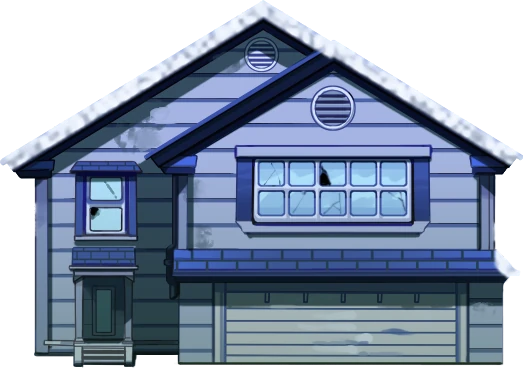
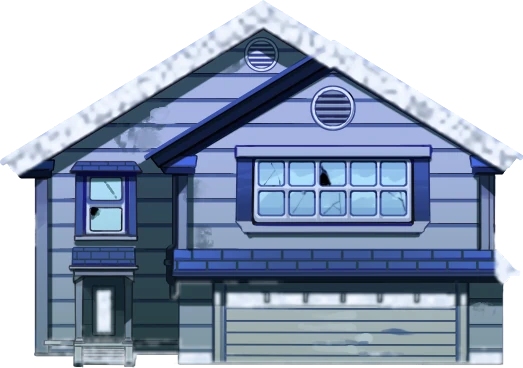
마을 방 다양화: 원작 함장실·자료실·비밀실·창고·생체 연구실 그림을 장별 방 뒷벽으로 쓰고 바닥 질감을 따로 깖, 6장 건물 밑동 풀을 눈으로 덮고 지붕 눈을 두껍게, 4장 갈색 삼각 종유석을 바위·결정으로

diff --git a/js/town.js b/js/town.js
@@ -118,7 +118,7 @@
         R(0, 0, 26, 4, 'b'); R(0, 0, 1, 18, '#'); R(25, 0, 1, 18, '#'); R(0, 17, 26, 1, '#');
         R(1, 7, 24, 1, '_'); R(12, 7, 2, 11, '_'); R(3, 9, 20, 6, 's'); R(12, 7, 2, 11, '_'); R(21, 8, 1, 2, '_');
       }),
-      floor: { base: 'tiles/concrete', zone: 'tiles/factory', path: 'town/g_asph', wall: 'tiles/concrete', back: '#3b3a3c', lane: 'rgba(230,180,40,.8)', edge: 'rgba(0,0,0,0)' },
+      floor: { base: 'tiles/concrete', zone: 'tiles/factory', zoneA: 0.45, path: 'town/g_asph', wall: 'tiles/concrete', back: '#3b3a3c', lane: 'rgba(230,180,40,.8)', edge: 'rgba(0,0,0,0)' },
       sky: ['#5d5a68', '#c79a72'], dark: 0.12, darkC: '20,14,10', fx: 'sparks', start: [12, 16],
       back: [{ art: 'town/t2_fence', by: 4.05, h: 2.0, repeat: 1 }],
       objects: [
@@ -177,8 +177,8 @@
       objects: [
         BLD('cmd', 'town/t4_cmd', 3, 6, 3, 3, 4, { plinth: 0, glow: '255,110,50' }), BLD('shop', 'town/t4_shop', 14, 6, 8, 3, 17, { plinth: 0, glow: '120,255,240' }), BLD('cafe', 'town/t2_booth', 3, 12, 6, 3, 6, { plinth: 0, glow: '255,200,140' }),
         D('tiles/crystal0', 1, 10, 1, 2.0, { lit: [130, '90,230,220'] }), D('tiles/crystal1', 22, 12, 2, 1.8, { lit: [140, '120,240,230'] }), D('tiles/crystal0', 10, 16, 1, 1.5, { lit: [100, '90,230,220'] }),
-        D('town/t4_ore', 8, 10, 2, 1.0), D('town/t4_stal2', 1, 15, 2, 1.9), D('town/t4_stal2', 22, 16, 2, 2.0), D('town/t4_rock', 16, 16, 2, 0.7),
-        D('town/t4_stal2', 23, 7, 2, 2.4), D('town/t4_stal', 0, 12, 2, 1.5, { flip: 1 }), D('town/t4_stal2', 0, 9, 1, 1.8, { flip: 1 }), D('town/t4_rock', 21, 9, 2, 0.6),
+        D('town/t4_ore', 8, 10, 2, 1.0), D('town/t4_ore', 1, 15, 2, 0.9), D('town/t4_rock', 22, 16, 2, 0.7), D('town/t4_rock', 16, 16, 2, 0.7),
+        D('town/t4_rock', 23, 7, 2, 0.8), D('town/t4_stal', 0, 12, 2, 1.5, { flip: 1 }), D('tiles/crystal1', 0, 9, 1, 1.4, { lit: [90, '120,240,230'] }), D('town/t4_rock', 21, 9, 2, 0.6),
         D('town/t4_ore', 18, 16, 2, 0.9), D('tiles/crystal1', 3, 16, 1, 1.3, { lit: [90, '120,240,230'] }),
         D('tiles/console', 18, 11, 2, 1.4, { lit: [90, '120,220,255'] }), D('tiles/gas', 20, 14, 2, 1.4), D('tiles/crate0', 11, 14, 1, 0.9), D('tiles/crate1', 10, 14, 1, 1.0), D('tiles/bags0', 15, 15, 2, 0.75),
         D('town/t0_lamp', 7, 8, 1, 2.1, { lit: [120, '200,235,255'] }), D('town/t0_lamp', 10, 8, 1, 2.1, { lit: [120, '200,235,255'] }),
@@ -186,9 +186,9 @@
         EXIT(12, 17), ...NPC([12, 11], [10, 11], [20, 10]), CON(14, 15),
       ],
       rooms: {
-        cmd: ROOM('드론 관제실', 'r_mm0_0', 370, ['#3c5a5c', '#88a9ab'], [D('town/r_iron1_9', 1, 2, 2, 1.7), D('town/r_mm2_2', 11, 2, 1, 1.6), D('town/r_mm1_12', 9, 2, 1, 1.7)]),
+        cmd: Object.assign(ROOM('드론 관제실', 'r_secret', 556, ['#3c5a5c', '#88a9ab'], [D('town/r_mk4_1', 1, 6, 1, 1.4), D('town/r_mm2_2', 11, 7, 1, 1.5)]), { floorTex: 'tiles/labd' }),
         shop: Object.assign(ROOM('드론 격납고', 'r_train_0', 365, ['#55606e', '#9aa6b6'], [D('town/r_iron1_5b', 1, 2, 1, 1.9), D('town/r_iron2_16', 11, 2, 1, 2.2)]), { tint: '#c9e3ea' }),
-        cafe: ROOM('보급고 휴게실', 'r_cafe3_0', 268, ['#8f877a', '#ece7de'], [D('town/r_cafe5_1', 3, 4, 3, 1.1), D('town/r_cafe2_1', 8, 5, 3, 1.0), D('town/r_cafe3_2', 10, 2, 1, 1.0), D('town/r_res2_16', 11, 2, 1, 1.6), D('tiles/crate1', 1, 2, 1, 1.0)]),
+        cafe: Object.assign(ROOM('보급고 휴게실', 'r_ware', 552, ['#8f877a', '#ece7de'], [D('town/r_cafe5_1', 4, 4, 3, 1.1), D('town/r_cafe2_1', 8, 4, 3, 1.0), D('town/r_cafe3_2', 11, 3, 1, 1.0)]), { floorTex: 'tiles/factory' }),
       },
     },
     // 5장 건너편 역사 거점: 지하 철도 승강장. 위는 기둥과 화물칸이 선 승강장, 언더와처 시설의 금고문과 서버
@@ -212,7 +212,7 @@
       ],
       lights: [5, 12.5, 20].flatMap((x) => [9, 13, 16].map((y) => [x, y, 210, '200,230,255'])), // 천장 조명: 고르게
       rooms: {
-        cmd: Object.assign(ROOM('서버 관제실', 'r_dis1_0', 355, ['#2f4f4a', '#7fa69c'], [D('town/r_andr1_15', 1, 2, 1, 2.1), D('town/r_andr2_10', 9, 2, 3, 1.0), D('tiles/server', 1, 6, 2, 1.1)]), { tint: '#d4e2ff' }),
+        cmd: Object.assign(ROOM('서버 관제실', 'r_arch', 552, ['#2f4f4a', '#7fa69c'], [D('town/r_andr2_10', 1, 7, 3, 1.0), D('tiles/server', 10, 7, 2, 1.1)]), { floorTex: 'tiles/labd' }),
         shop: Object.assign(ROOM('열차 정비실', 'r_train_0', 365, ['#55606e', '#9aa6b6'], [D('town/r_iron1_9', 1, 2, 2, 1.7), D('town/r_var2_14', 11, 2, 1, 2.4)]), { tint: '#d2deef' }),
         cafe: ROOM('역무실 휴게실', 'r_cafe5_0', 268, ['#8f877a', '#ece7de'], [D('town/r_cafe5_3', 8, 2, 3, 1.0), D('town/r_cafe2_1', 3, 4, 3, 1.0), D('town/r_cafe4_1', 8, 5, 3, 1.1), D('town/r_cafe3_2', 1, 2, 1, 1.0)]),
       },
@@ -239,8 +239,8 @@
         EXIT(12, 17), ...NPC([13, 11], [9, 11], [20, 11]), CON(14, 14),
       ],
       rooms: { // 숨어 지내던 곳이라 방마다 따뜻한 등불 빛
-        cmd: Object.assign(ROOM('분교 은신처', 'r_train_0', 365, ['#6a5a50', '#b8a495'], [D('town/r_cafe4_1b', 3, 3, 3, 1.0), D('town/r_var2_3', 11, 2, 1, 1.9), D('town/r_andr1_0', 1, 2, 1, 2.0)]), { tint: '#ffd9ae' }),
-        shop: Object.assign(ROOM('연구소 정비실', 'r_mm0_0', 370, ['#6b5b62', '#b8a2ab'], [D('town/r_var2_12', 1, 2, 1, 1.9), D('town/r_iron1_9', 10, 2, 2, 1.7)]), { tint: '#ffd9ae' }),
+        cmd: Object.assign(ROOM('분교 은신처', 'r_cap', 546, ['#6a5a50', '#b8a495'], [D('town/r_cafe4_1b', 1, 6, 3, 1.0)]), { floorTex: 'tiles/labw' }),
+        shop: Object.assign(ROOM('연구소 정비실', 'r_bio', 498, ['#6b5b62', '#b8a2ab'], [D('town/r_iron1_9', 10, 4, 2, 1.5)]), { floorTex: 'tiles/labw' }),
         cafe: Object.assign(ROOM('산장 쉼터', 'r_cafe4_0', 268, ['#8f877a', '#ece7de'], [D('town/r_cafe4_2', 8, 2, 3, 1.2), D('town/r_cafe5_1', 3, 4, 3, 1.1), D('town/r_cafe4_1', 8, 5, 3, 1.1), D('town/r_cafe4_3', 1, 2, 1, 1.6)]), { tint: '#ffe2bf' }),
       },
     },
@@ -251,7 +251,7 @@
     const m = TOWNMAPS[look] || TOWNMAPS.coast, R = m.rooms;
     for (const k in ROOMS0) {
       const o = ROOMS0[k], r = R && R[k];
-      MAPS[k] = r ? Object.assign({}, o, { name: r.label, bg: r.bg, fl: r.fl, wall: r.wall, tint: r.tint,
+      MAPS[k] = r ? Object.assign({}, o, { name: r.label, bg: r.bg, fl: r.fl, wall: r.wall, tint: r.tint, floorTex: r.floorTex,
         objects: [...o.objects.filter((x) => x.t === 'exit' || x.t === 'npc'), ...r.deco] }) : o;
     }
     const objects = m.objects.map((o) => (o.t === 'building' ? Object.assign({}, o, { label: R ? R[o.to[0]].label : ROOMNAME0[o.to[0]] }) : o));
@@ -444,8 +444,11 @@
   function drawRoomFloor(g) {
     const im = img(map.bg), mw = map.w * TILE, mh = map.h * TILE, y1 = 2 * TILE + 6, y2 = mh - TILE + 4, fx0 = TILE - 14, fx1 = mw - TILE + 14;
     g.fillStyle = '#05070c'; g.fillRect(0, y1, mw, mh - y1); // 뒷벽 자리(위 두 줄)는 비워 둔다
-    // 바닥은 원작 방 그림 바닥 가운데의 깨끗한 부분만 늘려 깐다 (옆벽의 서버장·경사로가 늘어지거나 잘려 보이지 않게)
-    if (ok(im)) g.drawImage(im, im.width * 0.46, map.fl + 6, im.width * 0.36, im.height - map.fl - 6, fx0, y1, fx1 - fx0, y2 - y1);
+    // 바닥은 원작 방 그림 바닥 가운데의 깨끗한 부분만 늘려 깐다 (옆벽의 서버장·경사로가 늘어지거나 잘려 보이지 않게).
+    // 방 그림 전체를 뒷벽으로 쓰는 방(floorTex)은 바닥 질감을 따로 깐다
+    const ft = map.floorTex && img(map.floorTex);
+    if (ft && ok(ft)) { const p = g.createPattern(ft, 'repeat'); p.setTransform(new DOMMatrix().scale(0.5)); g.fillStyle = p; g.fillRect(fx0, y1, fx1 - fx0, y2 - y1); }
+    else if (ok(im)) g.drawImage(im, im.width * 0.46, map.fl + 6, im.width * 0.36, im.height - map.fl - 6, fx0, y1, fx1 - fx0, y2 - y1);
     const sg = g.createLinearGradient(0, y1, 0, y1 + 60); sg.addColorStop(0, 'rgba(0,0,0,0.25)'); sg.addColorStop(1, 'rgba(0,0,0,0)');
     g.fillStyle = sg; g.fillRect(fx0, y1, fx1 - fx0, 60);
     g.fillStyle = 'rgba(20,22,28,.55)'; g.fillRect(fx0, y1, fx1 - fx0, 5); // 걸레받이: 벽과 바닥이 만나는 선
@@ -524,7 +527,7 @@
       let dw = w * 1.1, dh = (im.naturalHeight * dw) / im.naturalWidth;
       const maxH = (b.h + 2.6) * TILE; if (dh > maxH) { dw *= maxH / dh; dh = maxH; }
       const x = b.x * TILE + w / 2 - dw / 2;
-      ctx.fillStyle = 'rgba(0,0,0,0.26)'; ctx.beginPath(); ctx.ellipse(x + dw / 2, base - 4, dw * 0.56, 14, 0, 0, 7); ctx.fill();
+      ctx.fillStyle = 'rgba(0,0,0,0.26)'; ctx.beginPath(); ctx.ellipse(x + dw / 2, base - 4, dw * 0.5, 12, 0, 0, 7); ctx.fill();
       if (b.plinth !== 0) { // 바닥 받침 (1장 기지 건물)
         ctx.fillStyle = '#a89f8c'; ctx.fillRect(x - 8, base - 8, dw + 16, 14);
         ctx.fillStyle = '#cfc6b4'; ctx.fillRect(x - 8, base - 12, dw + 16, 10);
@@ -702,7 +705,8 @@
     const vw = W / S, vh = H / S, mw = map.w * TILE, mh = map.h * TILE;
     const ppx = pfx * TILE + TILE / 2, ppy = pfy * TILE + TILE / 2;
     camX = mw < vw ? (mw - vw) / 2 : Math.max(0, Math.min(mw - vw, ppx - vw / 2));
-    const top = map.indoor ? -TILE * 3.2 : 0;
+    let top = 0;
+    if (map.indoor) { const bi = img(map.bg); top = ok(bi) ? Math.min(-TILE * 3.2, 2 * TILE + 6 - (map.fl * (map.w * TILE - TILE * 2 + 28)) / bi.width + 30) : -TILE * 3.2; } // 뒷벽 그림 높이만큼 위를 더 보여 준다 (천장 끝 조금은 잘려도 된다)
     camY = mh - top < vh ? top - (vh - (mh - top)) / 2 : Math.max(top, Math.min(mh - vh, ppy - vh / 2));
     ctx.setTransform(S, 0, 0, S, -camX * S, -camY * S);
     ctx.drawImage(layer, 0, 0);

diff --git a/tools/build_town.py b/tools/build_town.py
@@ -120,7 +120,7 @@ def add_snow(im):
     al = a[:, :, 3] > 40
     h, w = al.shape
     top = np.zeros_like(al)
-    k = max(6, h // 22)  # 눈 두께
+    k = max(8, h // 14)  # 눈 두께
     above = np.zeros_like(al)
     above[k:] = al[:-k]
     top = al & ~above  # 위 k 픽셀 안이 비어 있는 곳 = 위로 드러난 면
@@ -131,6 +131,11 @@ def add_snow(im):
     m = np.clip(m * (0.75 + noise * 0.5), 0, 1)[:, :, None]
     cold = a[:, :, :3] * np.array([0.84, 0.9, 1.02])
     snow = np.array([244, 248, 255], np.float32) - (1 - noise[:, :, None]) * np.array([30, 22, 10])
+    # 밑동의 풀(초록 빛)은 눈에 덮인다
+    g = (a[:, :, 1] > a[:, :, 0] * 1.08) & (a[:, :, 1] > a[:, :, 2] * 1.05) & al
+    g[: int(h * 0.7)] = False
+    gm = np.asarray(Image.fromarray((g * 255).astype(np.uint8)).filter(ImageFilter.GaussianBlur(1.5))).astype(np.float32)[:, :, None] / 255
+    m = np.maximum(m, gm)
     rgb = cold * (1 - m) + snow * m
     return Image.fromarray(np.dstack([np.clip(rgb, 0, 255), a[:, :, 3:]]).astype(np.uint8))
 
@@ -162,6 +167,16 @@ def puddle():
     return Image.fromarray(np.dstack([np.clip(rgb, 0, 255), a * 255]).astype(np.uint8))
 
 
+# 장마다 다른 방 뒷벽: 원작 기지 시설 방 그림 전체를 뒷벽으로 쓴다 (바닥은 게임이 따로 깐다)
+ROOMBG = {
+    'r_cap': ('UI_Facility/CaptainRoom.png', 1091),
+    'r_arch': ('UI_Facility/Room_Archives.png', 1104),
+    'r_secret': ('UI_Facility/Room_Secret.png', 1112),
+    'r_ware': ('UI_Facility/Room_Warehouse.png', 1104),
+    'r_bio': ('BG_Ch10_Biological Laboratory/Biological Laboratory (2).png', 996),
+}
+
+
 def main():
     os.makedirs(OUT, exist_ok=True)
     for name, (src, x, y, w, h, n) in PIECES.items():
@@ -185,6 +200,9 @@ def main():
         im.save(os.path.join(OUT, name + '.webp'), quality=90, method=6)
     for name, src, x, y, w, h, n in SNOWHOUSE:
         add_snow(shrink(cut(src, x, y, w, h), n)).save(os.path.join(OUT, name + '.webp'), quality=90, method=6)
+    for name, (src, h) in ROOMBG.items():
+        im = Image.open(B + src).convert('RGBA').crop((0, 0, 2048, h))
+        shrink(im, 1024).save(os.path.join(OUT, name + '.webp'), quality=88, method=6)
     puddle().save(os.path.join(OUT, 'd_puddle.webp'), quality=90)
     for name, (src, x, y, w, h) in GROUND.items():
         im = Image.open(B + src).convert('RGB').crop((x, y, x + w, y + h)).resize((512, 512), Image.LANCZOS)
